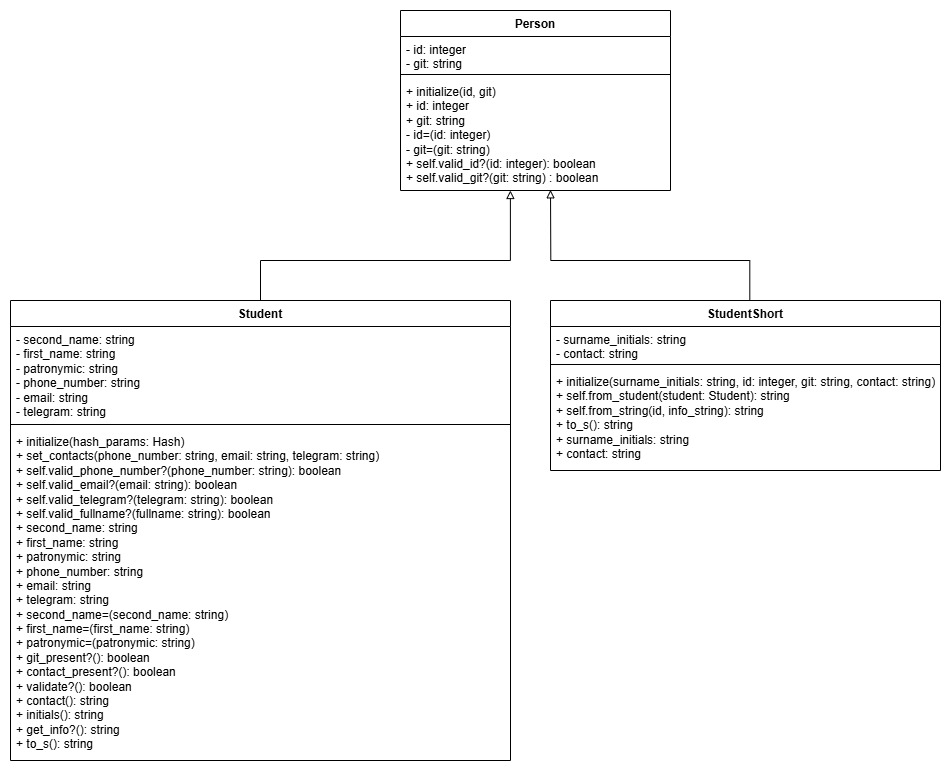
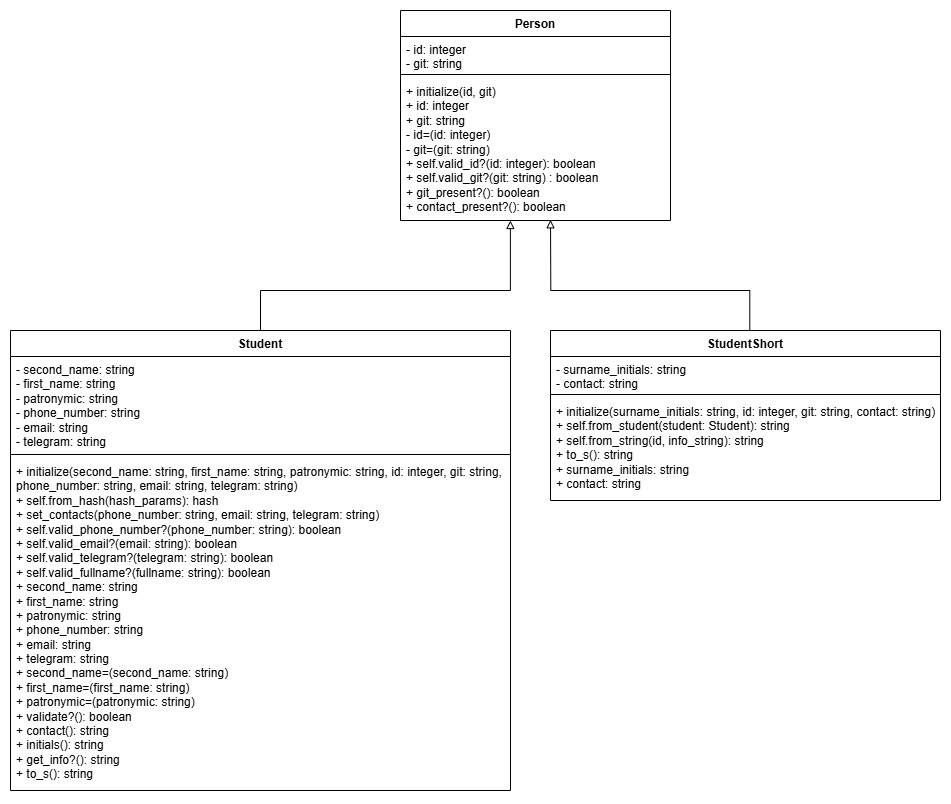
Lab2: refactoring

diff --git a/student/student.rb b/student/student.rb
@@ -8,27 +8,40 @@ class Student < Person
   	TELEGRAM_REGEX = /\A[a-zA-Z0-9_]{5,32}\z/
   	FULLNAME_REGEX = /\A[А-Яа-яЁёA-Za-z]+\z/
 
-	def initialize(hash_params = {second_name:, first_name:, patronymic:, id: nil, git: nil, phone_number: nil, email: nil, telegram: nil}) 
-		self.second_name = hash_params[:second_name]
-		self.first_name = hash_params[:first_name]
-		self.patronymic = hash_params[:patronymic]
-		super(id: hash_params[:id], git: hash_params[:git])
-		self.set_contacts(phone_number: hash_params[:phone_number], email: hash_params[:email], telegram: hash_params[:telegram])
+	def initialize(second_name:, first_name:, patronymic:, id: nil, git: nil, phone_number: nil, email: nil, telegram: nil) 
+		self.second_name = second_name
+		self.first_name = first_name
+		self.patronymic = patronymic
+		super(id: id, git: git)
+		self.set_contacts(phone_number: phone_number, email:email, telegram: telegram)
+	end
+
+	def self.from_hash(hash_params)
+		new(
+			second_name: hash_params[:second_name],
+			first_name: hash_params[:first_name],
+			patronymic: hash_params[:patronymic],
+			id: hash_params[:id],
+			git: hash_params[:git],
+			phone_number: hash_params[:phone_number],
+			email: hash_params[:email],
+			telegram: hash_params[:telegram]
+		)
 	end
 
 	def set_contacts(phone_number: nil, email: nil, telegram: nil)
 		unless phone_number.nil? || Student.valid_phone_number?(phone_number)
-      		raise "Номер телефона некорректный"
+      		raise ArgumentError, "Номер телефона некорректный"
     	end
     	@phone_number = phone_number
 
     	unless email.nil? || Student.valid_email?(email)
-      		raise "Адрес почты некорректный"
+      		raise ArgumentError, "Адрес почты некорректный"
    		end
     	@email = email
 
     	unless telegram.nil? || Student.valid_telegram?(telegram)
-      		raise "Имя пользователя Telegram некорректное"
+      		raise ArgumentError, "Имя пользователя Telegram некорректное"
     	end
     	@telegram = telegram
 	end
@@ -51,43 +64,33 @@ class Student < Person
 
 	def second_name=(second_name)
 		unless Student.valid_fullname?(second_name)
-			raise "Фамилия должна быть указана и содержать только буквы"
+			raise ArgumentError, "Фамилия должна быть указана и содержать только буквы"
 		end
 		@second_name = second_name
 	end
 
 	def first_name=(first_name)
 		unless Student.valid_fullname?(first_name)
-			raise "Имя должно быть указано и содержать только буквы"
+			raise ArgumentError, "Имя должно быть указано и содержать только буквы"
 		end
 		@first_name = first_name
 	end
 
 	def patronymic=(patronymic)
 		unless Student.valid_fullname?(patronymic)
-			raise "Отчество должно быть указано и содержать только буквы"
+			raise ArgumentError, "Отчество должно быть указано и содержать только буквы"
 		end
 		@patronymic = patronymic
 	end
-
-  	def git_present?
-  		!git.nil?
-	end
-
-	def contact_present?
-		!phone_number.nil? || !email.nil? || !telegram.nil?
-	end  
 
 	def validate?
 		git_present? && contact_present?
 	end
 
 	def contact
-		contacts = []
-    	contacts << "номер телефона - #{phone_number}" if phone_number
-    	contacts << "почта - #{email}" if email
-    	contacts << "телеграм - #{telegram}" if telegram
-    	contacts.empty? ? "Нет контактной информации" : contacts.join(", ")
+    	return "номер телефона - #{phone_number}" if phone_number
+    	return "почта - #{email}" if email
+    	return "телеграм - #{telegram}" if telegram
 	end
 
 	def initials

diff --git a/student/person.rb b/student/person.rb
@@ -13,14 +13,14 @@ class Person
 	# setters 
 	def id=(id)
 		unless Person.valid_id?(id)
-			raise "ID должно быть целым числом больше нуля"
+			raise ArgumentError, "ID должно быть целым числом больше нуля"
 		end
 		@id = id 
 	end
 
   	def git=(git)
   		unless Person.valid_git?(git)
-  			raise "Git некорректный. Пример: https://github.com/username"
+  			raise ArgumentError, "Git некорректный. Пример: https://github.com/username"
   		end
   		@git = git 
   	end
@@ -33,4 +33,12 @@ class Person
 	def self.valid_git?(git)
   		git.match?(GIT_REGEX)
   	end
+
+  	def git_present?
+  		!git.nil?
+	end
+
+	def contact_present?
+		!phone_number.nil? || !email.nil? || !telegram.nil?
+	end  
 end
